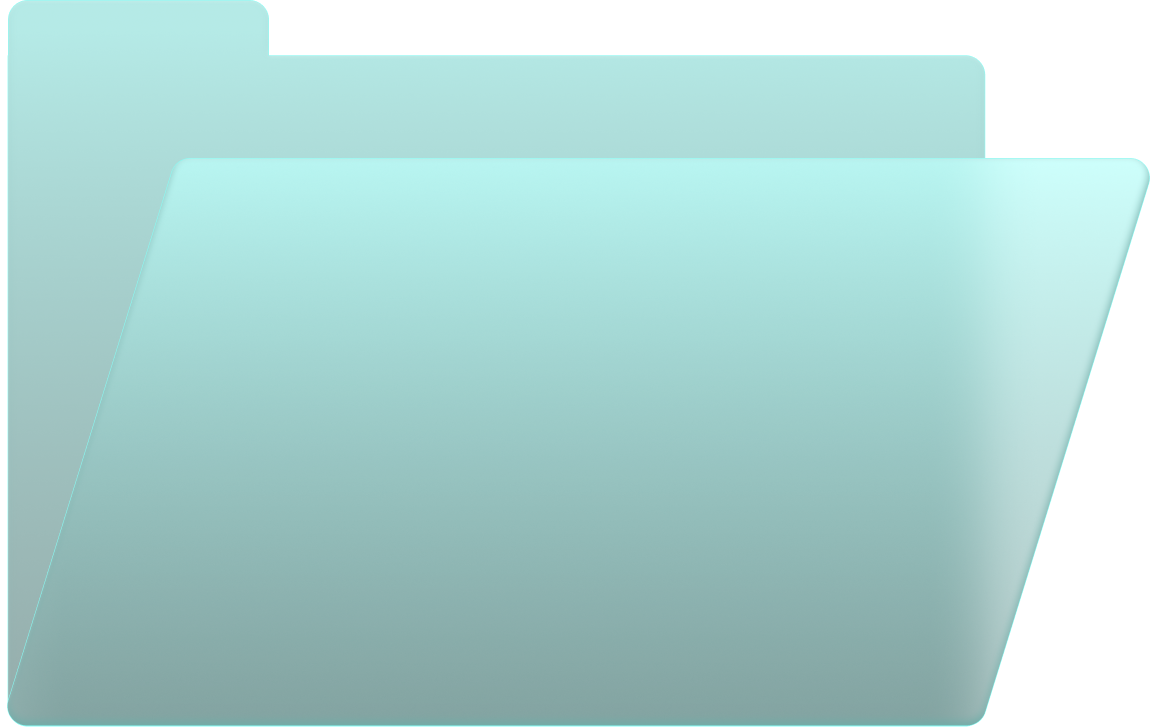
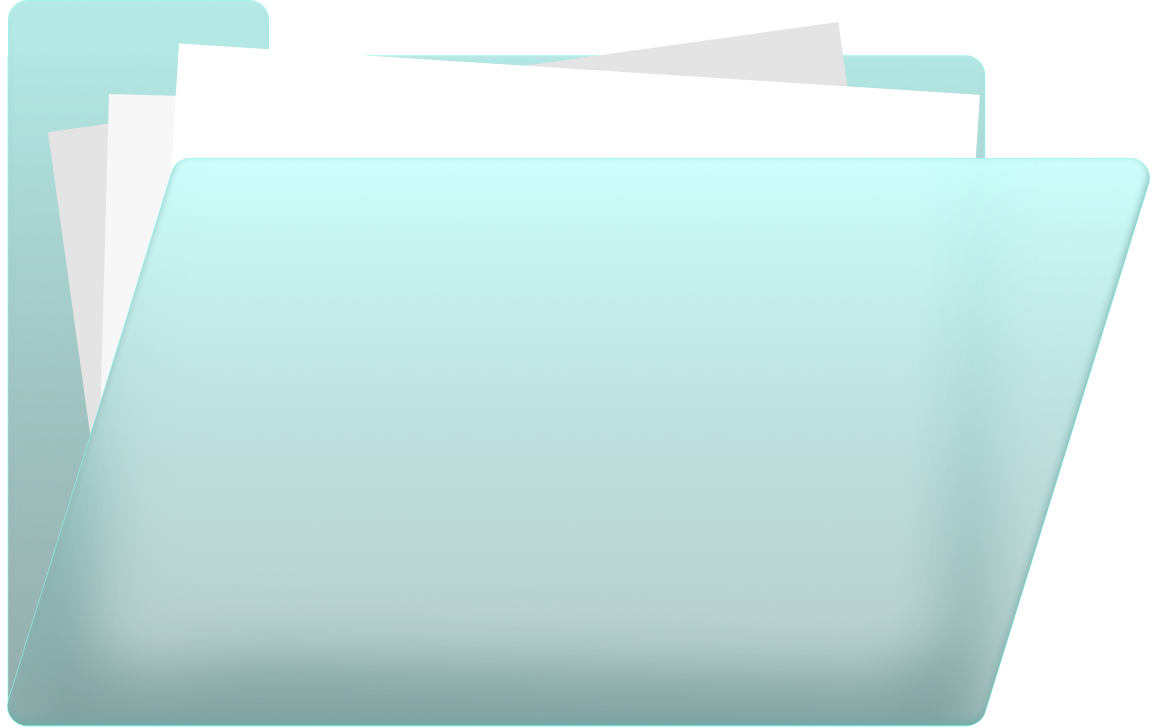
폴더 이미지 수정

diff --git a/subpage.html b/subpage.html
@@ -71,35 +71,35 @@
                             id="port3-trigger" style="cursor: pointer;">
                         <h2 class="card-title">DESIGN</h2>
 
-                        <div class="card-buttons">
-                            <a href="#" class="app-link-btn" id="port3-btn">디자인 보러가기</a>
-                        </div>
+                        <!-- <div class="card-buttons">
+                            <a href="#" class="app-link-btn" id="port3-btn">디자인 보러가기</a> -->
                     </div>
                 </div>
-
-            </main>
-
-            <!-- Back Buttons -->
-            <div
-                style="display: flex; flex-direction: column; gap: 15px; align-items: center; margin-top: 150px; margin-bottom: 80px;">
-                <a href="main.html" class="back-btn" style="margin: 0;">
-                    <svg width="24" height="24" viewBox="0 0 24 24" fill="none" stroke="currentColor" stroke-width="2.5"
-                        stroke-linecap="round" stroke-linejoin="round">
-                        <line x1="19" y1="12" x2="5" y2="12" />
-                        <polyline points="12 19 5 12 12 5" />
-                    </svg>
-                    Back
-                </a>
-                <a href="index.html" class="back-btn" style="margin: 0;">
-                    <svg width="24" height="24" viewBox="0 0 24 24" fill="none" stroke="currentColor" stroke-width="2.5"
-                        stroke-linecap="round" stroke-linejoin="round">
-                        <line x1="19" y1="12" x2="5" y2="12" />
-                        <polyline points="12 19 5 12 12 5" />
-                    </svg>
-                    Back to Intro
-                </a>
-            </div>
         </div>
+
+        </main>
+
+        <!-- Back Buttons -->
+        <div
+            style="display: flex; flex-direction: column; gap: 15px; align-items: center; margin-top: 150px; margin-bottom: 80px;">
+            <a href="main.html" class="back-btn" style="margin: 0;">
+                <svg width="24" height="24" viewBox="0 0 24 24" fill="none" stroke="currentColor" stroke-width="2.5"
+                    stroke-linecap="round" stroke-linejoin="round">
+                    <line x1="19" y1="12" x2="5" y2="12" />
+                    <polyline points="12 19 5 12 12 5" />
+                </svg>
+                Back
+            </a>
+            <a href="index.html" class="back-btn" style="margin: 0;">
+                <svg width="24" height="24" viewBox="0 0 24 24" fill="none" stroke="currentColor" stroke-width="2.5"
+                    stroke-linecap="round" stroke-linejoin="round">
+                    <line x1="19" y1="12" x2="5" y2="12" />
+                    <polyline points="12 19 5 12 12 5" />
+                </svg>
+                Back to Intro
+            </a>
+        </div>
+    </div>
     </div>
 
     <!-- Modal for Portfolio 1 (Flowing Images) -->
@@ -807,7 +807,33 @@
         }
 
         .portfolio-card:hover {
-            transform: translateY(-12px);
+            transform: translateY(-45px) scale(1.04);
+        }
+
+        @keyframes cardBobbing {
+            0% {
+                transform: translateY(0);
+            }
+
+            50% {
+                transform: translateY(-12px);
+            }
+
+            100% {
+                transform: translateY(0);
+            }
+        }
+
+        .card-port1 .portfolio-card-content {
+            animation: cardBobbing 5s ease-in-out infinite;
+        }
+
+        .card-port2 .portfolio-card-content {
+            animation: cardBobbing 5.5s ease-in-out infinite 0.3s;
+        }
+
+        .card-port3 .portfolio-card-content {
+            animation: cardBobbing 5.2s ease-in-out infinite 0.6s;
         }
 
         .portfolio-card-content {
@@ -860,7 +886,7 @@
         }
 
         .cards-grid .portfolio-card:hover .card-image-only {
-            transform: scale(1.1) rotate(5deg);
+            transform: scale(1.1);
         }
 
         .card-icon-wrapper {
@@ -877,7 +903,7 @@
         }
 
         .card:hover .card-icon-wrapper {
-            transform: scale(1.1) rotate(5deg);
+            transform: scale(1.1);
         }
 
         /* Card Typography */
@@ -1440,7 +1466,8 @@
             font-size: 14px;
             font-weight: 700;
             color: #333333;
-            margin-left: 20px; /* Prevent overlap with the tape on the top-left */
+            margin-left: 20px;
+            /* Prevent overlap with the tape on the top-left */
         }
 
         .app-card-body {